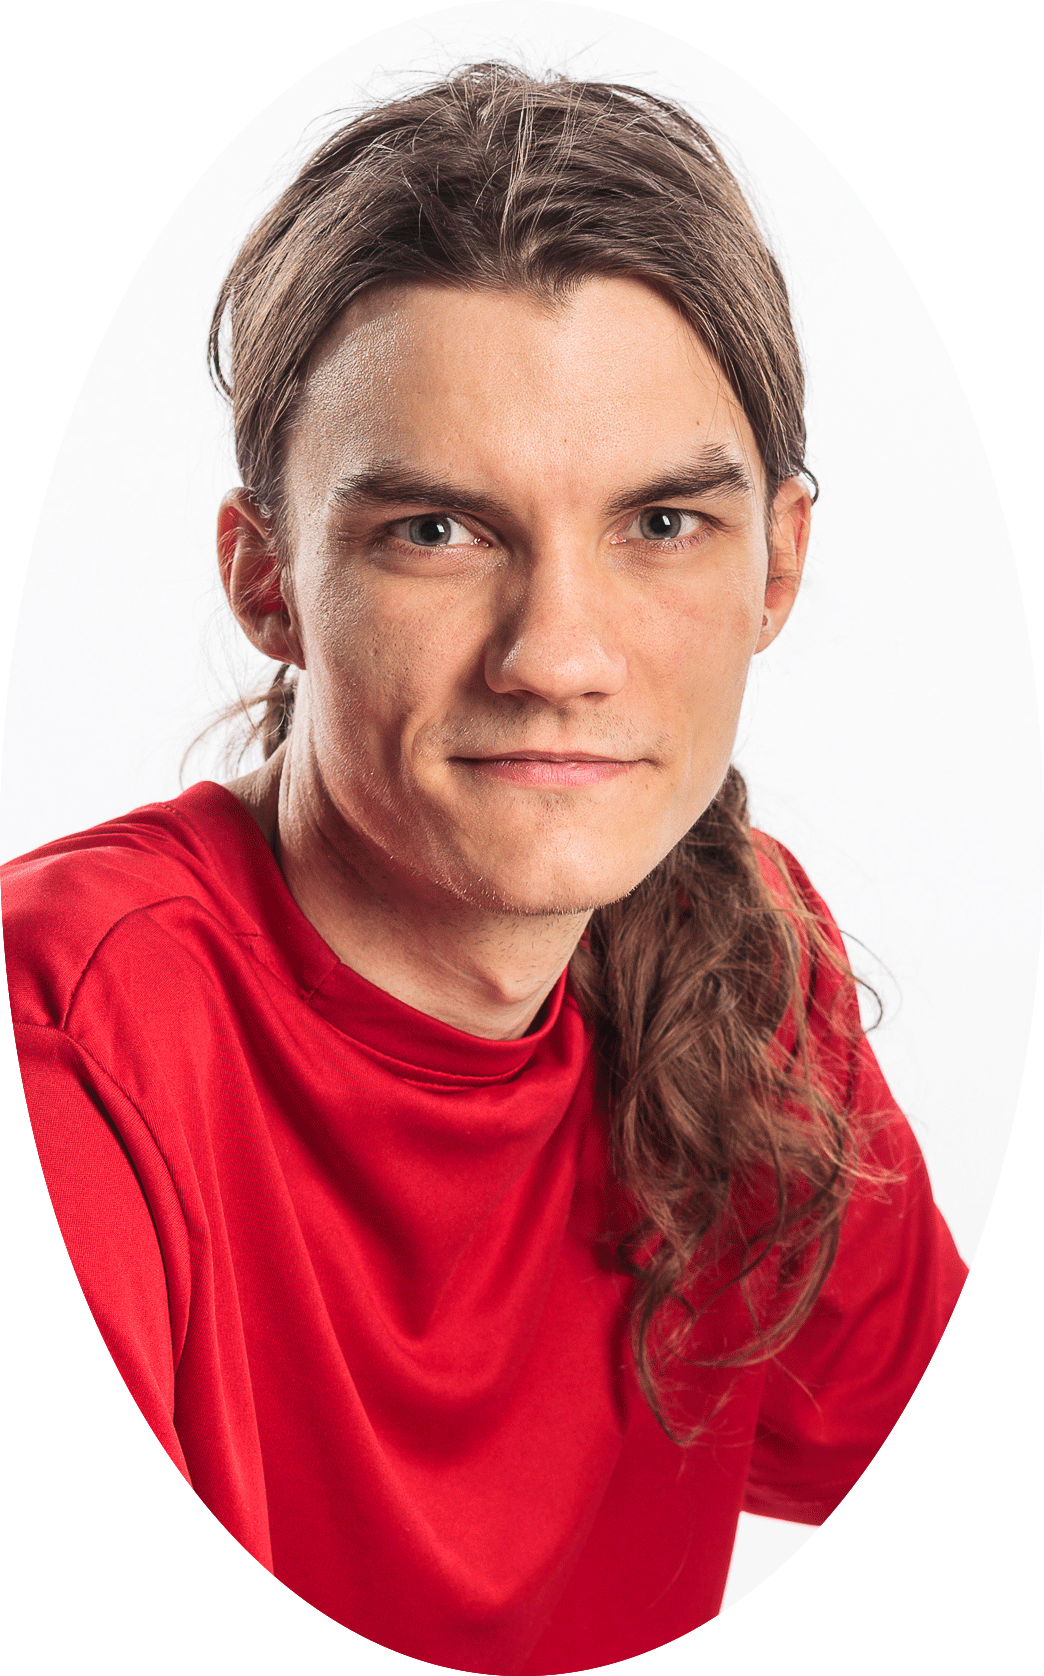
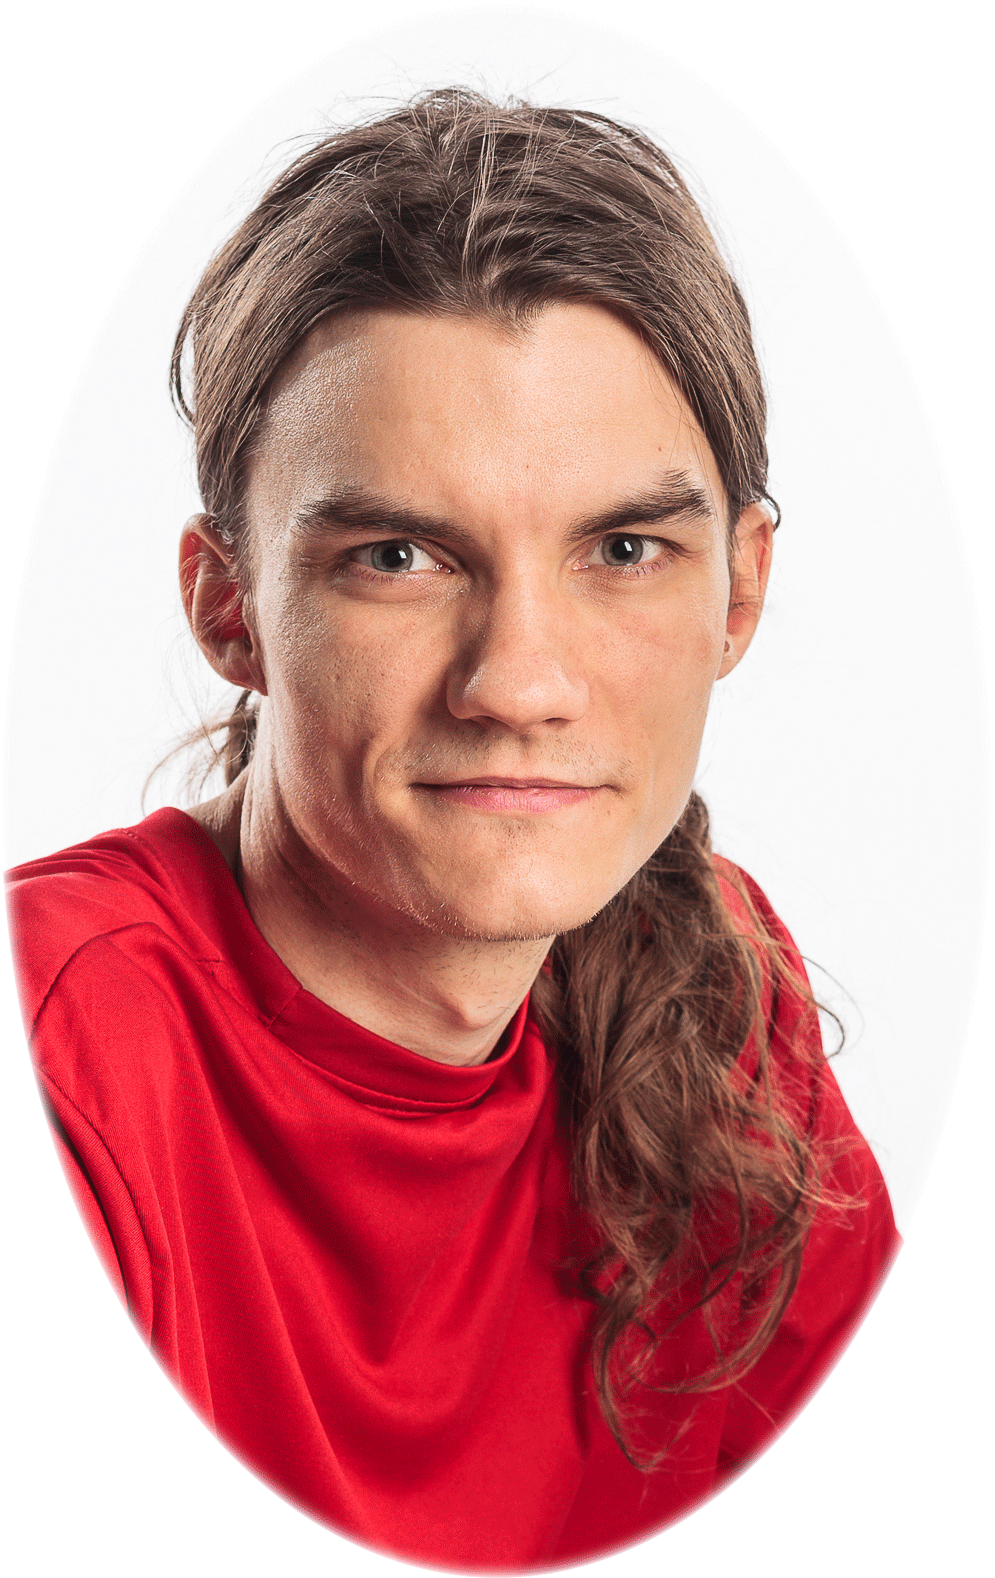
Added a proper Hobbies image.

diff --git a/src/texts.js b/src/texts.js
@@ -74,6 +74,7 @@ export const TEXTS = [
   [
     "Ever since I was 4 years old, I've been on a computer playing games. That hasn't changed at all since then, but I've had some new additions to my hobbies along the way.",
     "I've been doing cycling since I was a kid. I had to drive my bicycle everyday to school and that was my only source of exercise outside of school. I do like cycling, don't get me wrong. I still like to go out on a stroll every now and then.",
+    "We've always had a dog in our family. It's always lovely to play around with a dog.",
     "Recently I've started doing Yoga and I also started learning how to play the Piano. I also play board games with my friends. it's always a pleasure to spend some time with friends."
   ]
 ]

diff --git a/src/App.js b/src/App.js
@@ -2,6 +2,7 @@ import React, { Component } from 'react';
 import Parallax from 'react-springy-parallax';
 import './App.css';
 import General from './General.png';
+import Hobbies from './Hobbies.png';
 import { TEXTS } from './texts';
 
 function Square(index) {
@@ -68,7 +69,7 @@ class App extends Component {
       Square(4),
       Square(5),
       Square(6),
-      <img src={General} className="img-fluid w-75 m-5" alt="General" />,
+      <img src={Hobbies} className="img-fluid w-75 m-5" alt="General" />,
     ]
   }
 
